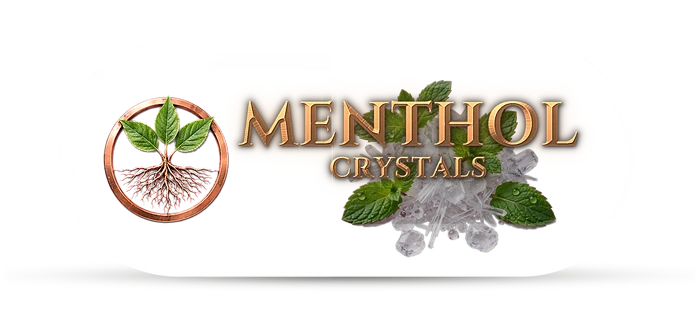
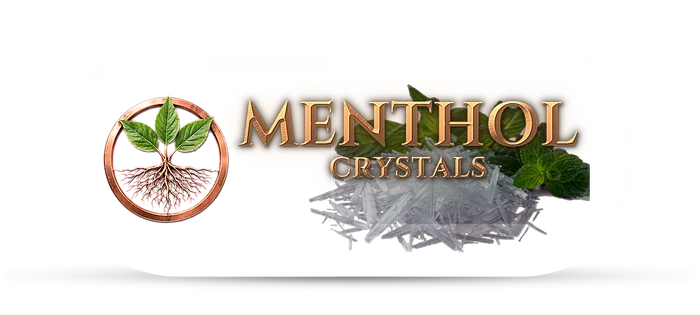
Menthol capsule with long crystals, crisp lettering on all

Changed region(s): [[0.42, 0.2571, 0.84, 0.8286]]

diff --git a/tongkat-ali.html b/tongkat-ali.html
@@ -31,7 +31,7 @@
 <link rel="preconnect" href="https://fonts.gstatic.com" crossorigin>
 <link href="https://fonts.googleapis.com/css2?family=Cinzel:wght@400;500;600&family=Cormorant+Garamond:ital,wght@0,400;0,500;0,600;1,400&display=swap" rel="stylesheet">
 <link rel="stylesheet" href="/sheet.css?v=9">
-<link rel="preload" as="image" href="/tongkat-ali-hero.webp?v=20" type="image/webp">
+<link rel="preload" as="image" href="/tongkat-ali-hero.webp?v=21" type="image/webp">
 <script>document.documentElement.className="js"</script>
 </head>
 <body>
@@ -40,7 +40,7 @@
 <a class="tb-back" href="/#products">&larr; All products</a></header>
 <main>
 <section class="hero2">
-<figure class="himg"><img src="/tongkat-ali-hero.webp?v=20" width="1200" height="540" alt="Root Source Tongkat Ali (Pasak Bumi): sliced and whole roots inside a glass capsule on dark volcanic rock" fetchpriority="high"></figure>
+<figure class="himg"><img src="/tongkat-ali-hero.webp?v=21" width="1200" height="540" alt="Root Source Tongkat Ali (Pasak Bumi): sliced and whole roots inside a glass capsule on dark volcanic rock" fetchpriority="high"></figure>
 <div class="tblock">
 <p class="eyebrow">Fact sheet</p>
 <h1>Tongkat Ali</h1>

diff --git a/sambiloto.html b/sambiloto.html
@@ -31,7 +31,7 @@
 <link rel="preconnect" href="https://fonts.gstatic.com" crossorigin>
 <link href="https://fonts.googleapis.com/css2?family=Cinzel:wght@400;500;600&family=Cormorant+Garamond:ital,wght@0,400;0,500;0,600;1,400&display=swap" rel="stylesheet">
 <link rel="stylesheet" href="/sheet.css?v=9">
-<link rel="preload" as="image" href="/sambiloto-hero.webp?v=20" type="image/webp">
+<link rel="preload" as="image" href="/sambiloto-hero.webp?v=21" type="image/webp">
 <script>document.documentElement.className="js"</script>
 </head>
 <body>
@@ -40,7 +40,7 @@
 <a class="tb-back" href="/#products">&larr; All products</a></header>
 <main>
 <section class="hero2">
-<figure class="himg"><img src="/sambiloto-hero.webp?v=20" width="1200" height="540" alt="Root Source Sambiloto: green Sambiloto leaves inside a glass capsule on dark volcanic rock" fetchpriority="high"></figure>
+<figure class="himg"><img src="/sambiloto-hero.webp?v=21" width="1200" height="540" alt="Root Source Sambiloto: green Sambiloto leaves inside a glass capsule on dark volcanic rock" fetchpriority="high"></figure>
 <div class="tblock">
 <p class="eyebrow">Fact sheet</p>
 <h1>Sambiloto</h1>

diff --git a/menthol.html b/menthol.html
@@ -31,7 +31,7 @@
 <link rel="preconnect" href="https://fonts.gstatic.com" crossorigin>
 <link href="https://fonts.googleapis.com/css2?family=Cinzel:wght@400;500;600&family=Cormorant+Garamond:ital,wght@0,400;0,500;0,600;1,400&display=swap" rel="stylesheet">
 <link rel="stylesheet" href="/sheet.css?v=9">
-<link rel="preload" as="image" href="/menthol-hero.webp?v=20" type="image/webp">
+<link rel="preload" as="image" href="/menthol-hero.webp?v=21" type="image/webp">
 <script>document.documentElement.className="js"</script>
 </head>
 <body>
@@ -40,7 +40,7 @@
 <a class="tb-back" href="/#products">&larr; All products</a></header>
 <main>
 <section class="hero2">
-<figure class="himg"><img src="/menthol-hero.webp?v=20" width="1200" height="540" alt="Root Source Menthol Crystals: menthol crystals and mint leaves on dark volcanic rock" fetchpriority="high"></figure>
+<figure class="himg"><img src="/menthol-hero.webp?v=21" width="1200" height="540" alt="Root Source Menthol Crystals: menthol crystals and mint leaves on dark volcanic rock" fetchpriority="high"></figure>
 <div class="tblock">
 <p class="eyebrow">Fact sheet</p>
 <h1>Menthol Crystals</h1>

diff --git a/purwoceng.html b/purwoceng.html
@@ -31,7 +31,7 @@
 <link rel="preconnect" href="https://fonts.gstatic.com" crossorigin>
 <link href="https://fonts.googleapis.com/css2?family=Cinzel:wght@400;500;600&family=Cormorant+Garamond:ital,wght@0,400;0,500;0,600;1,400&display=swap" rel="stylesheet">
 <link rel="stylesheet" href="/sheet.css?v=9">
-<link rel="preload" as="image" href="/purwoceng-hero.webp?v=20" type="image/webp">
+<link rel="preload" as="image" href="/purwoceng-hero.webp?v=21" type="image/webp">
 <script>document.documentElement.className="js"</script>
 </head>
 <body>
@@ -40,7 +40,7 @@
 <a class="tb-back" href="/#products">&larr; All products</a></header>
 <main>
 <section class="hero2">
-<figure class="himg"><img src="/purwoceng-hero.webp?v=20" width="1200" height="540" alt="Root Source Purwoceng: Purwoceng roots inside a glass capsule on dark volcanic rock" fetchpriority="high"></figure>
+<figure class="himg"><img src="/purwoceng-hero.webp?v=21" width="1200" height="540" alt="Root Source Purwoceng: Purwoceng roots inside a glass capsule on dark volcanic rock" fetchpriority="high"></figure>
 <div class="tblock">
 <p class="eyebrow">Fact sheet</p>
 <h1>Purwoceng</h1>
